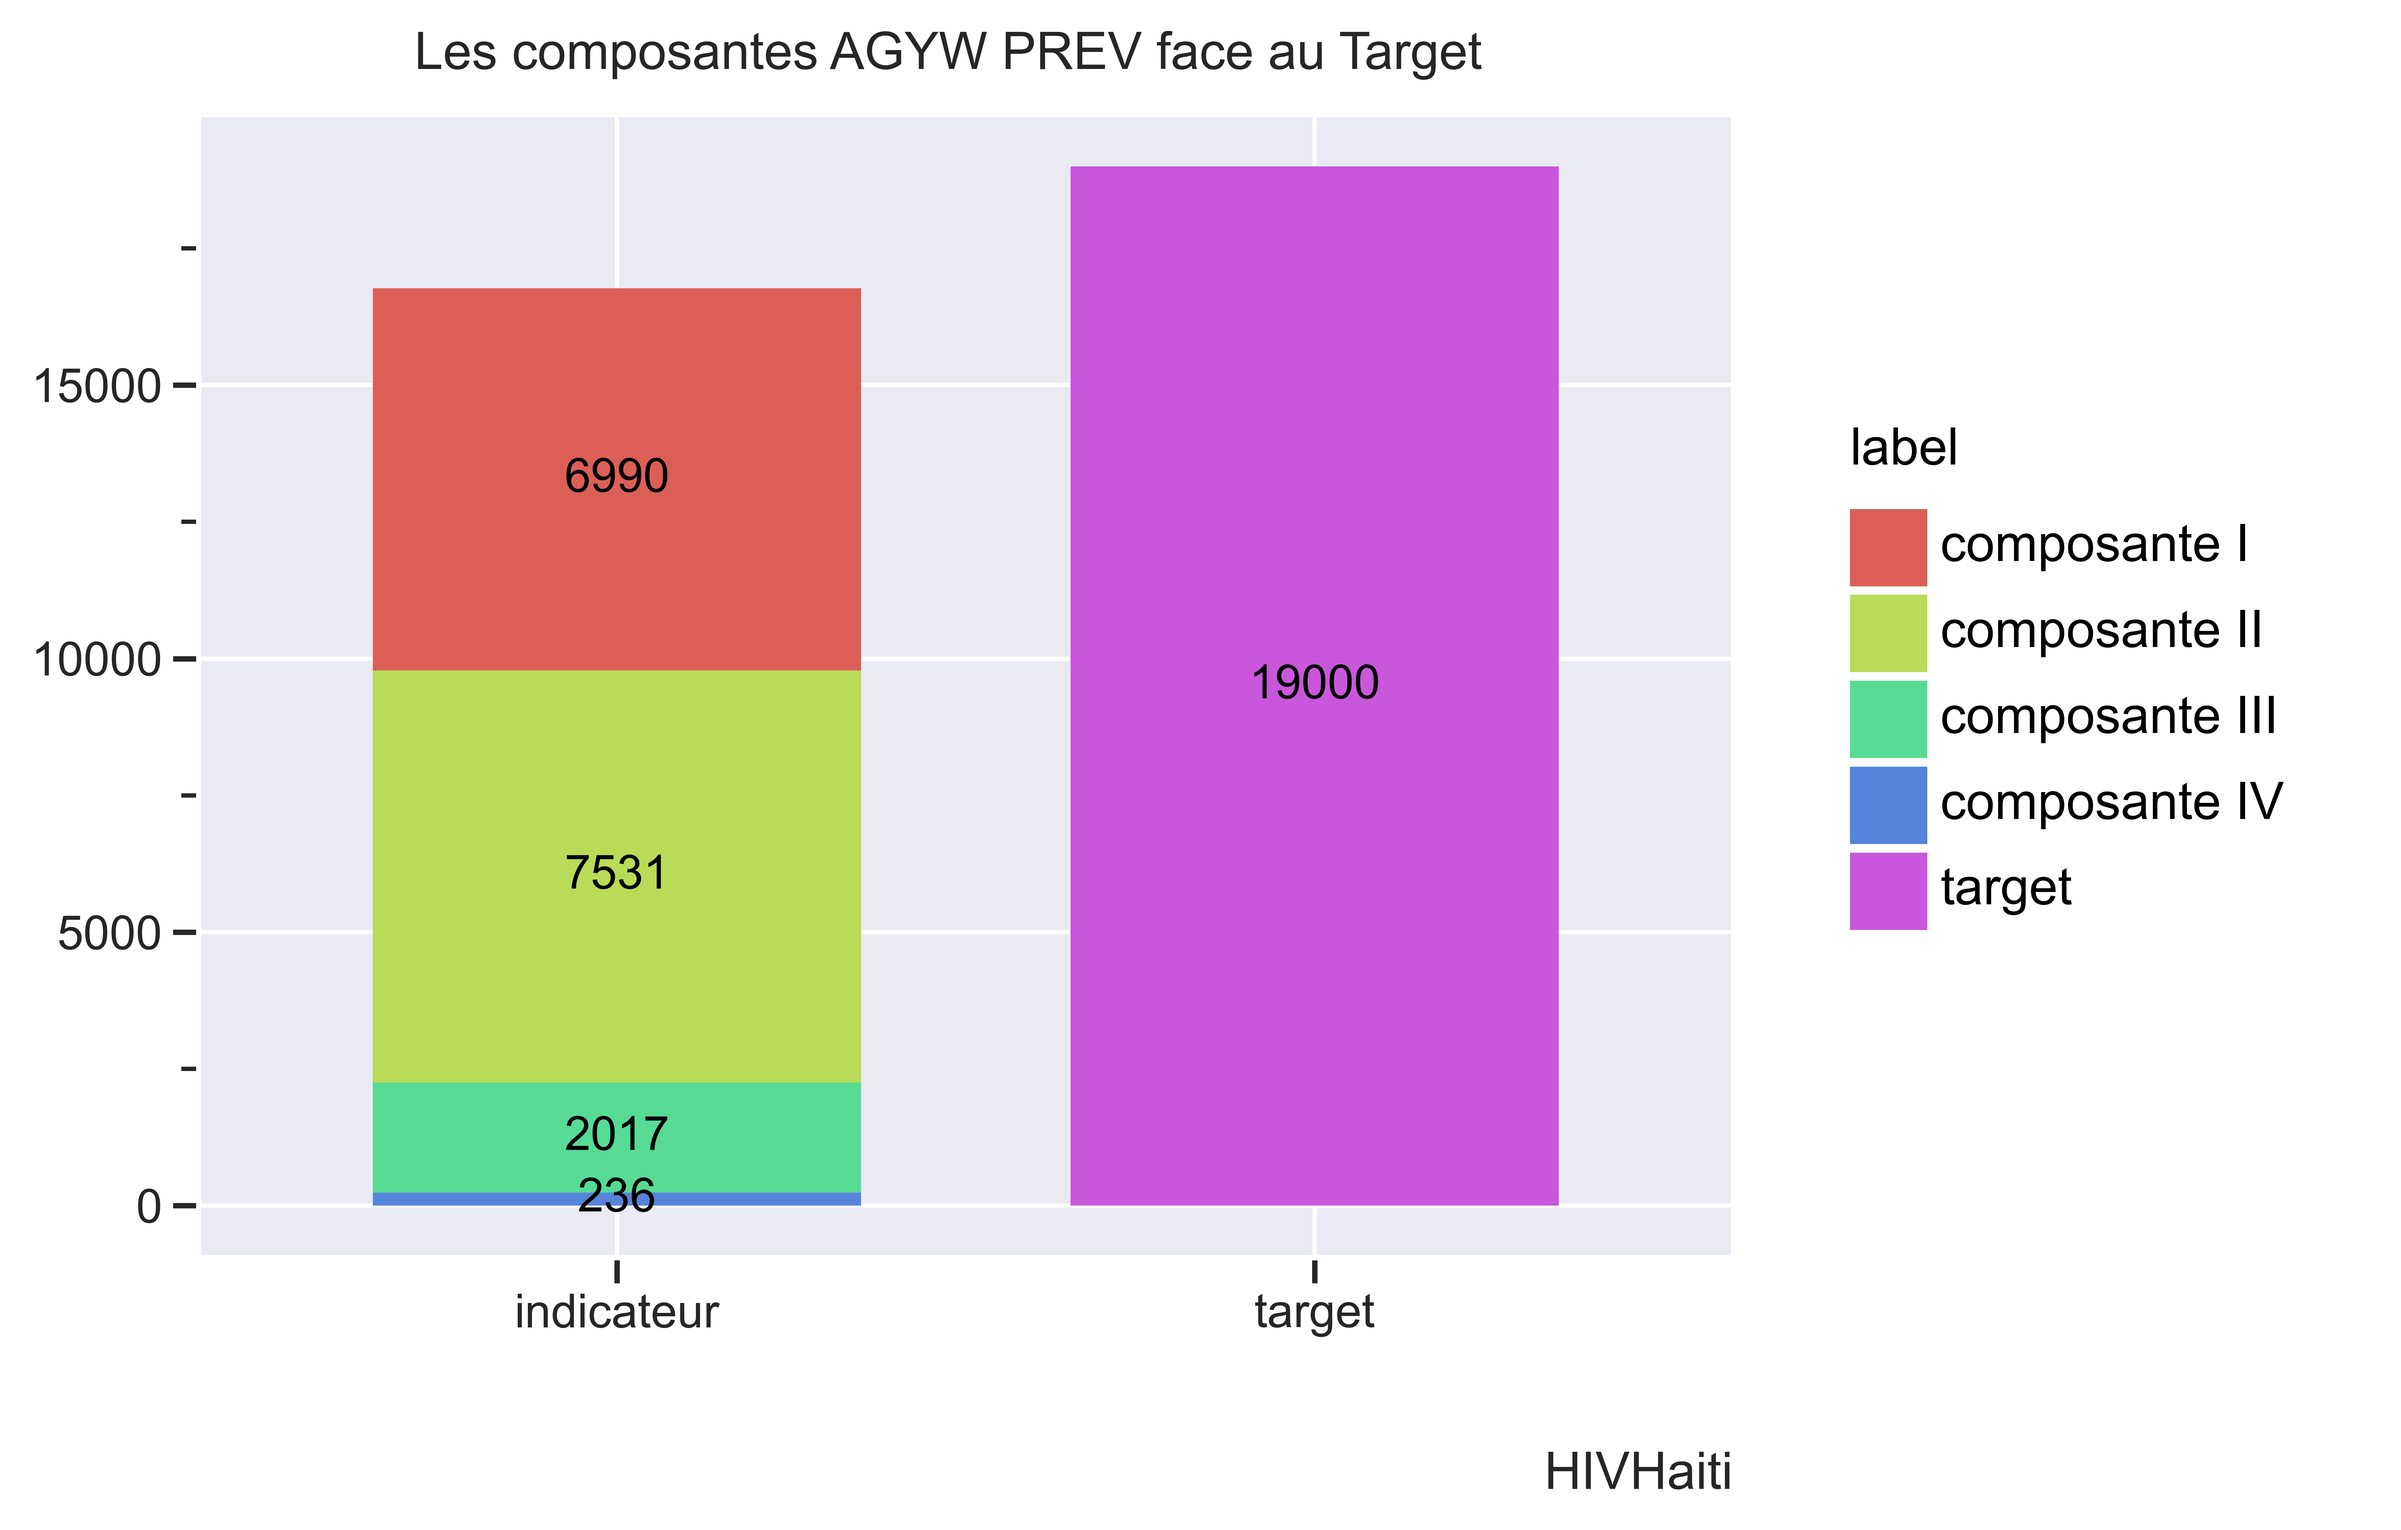
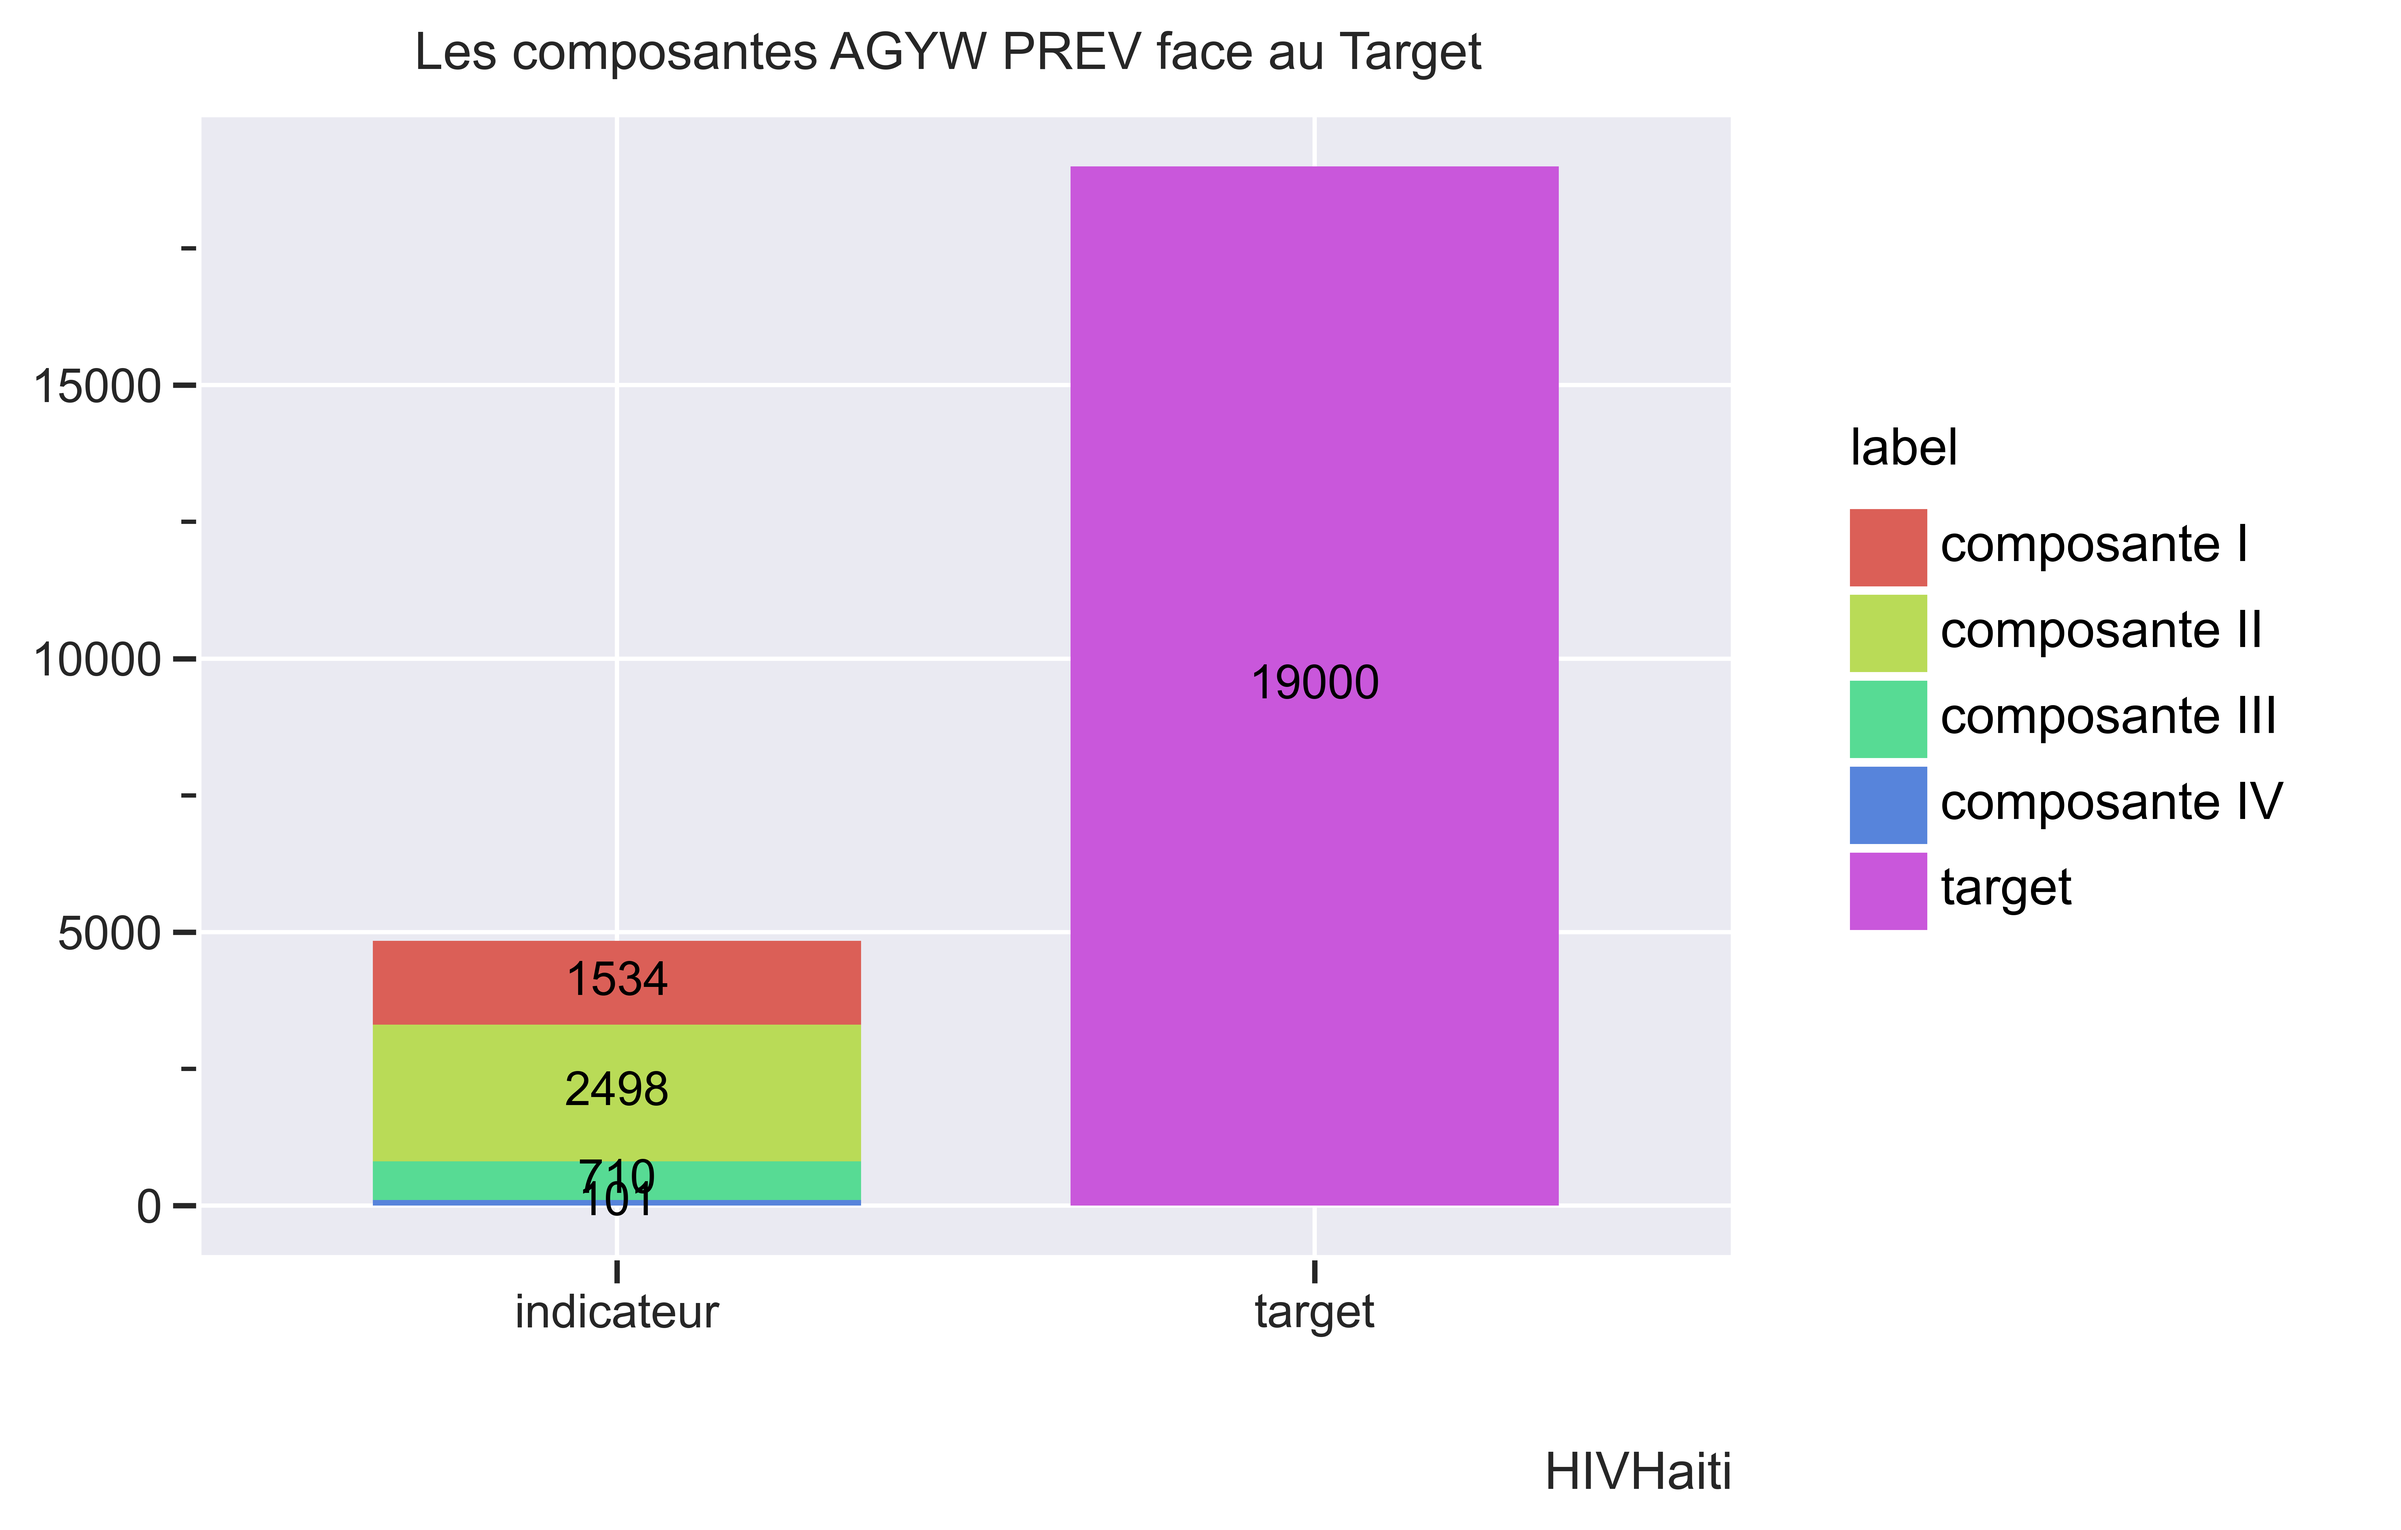
ou paka peur

Changed region(s): [[0.1559, 0.1868, 0.3742, 0.8094]]

diff --git a/data/v22_updated/core/active.py b/data/v22_updated/core/active.py
@@ -20,12 +20,14 @@ DBNAME = config('DBCaris')
 
 
 class Set_date(Enum):
-    master_start = "2017-10-01"
-    #master_end = "2022-07-19"
-    master_end = datetime.today().strftime('%Y-%m-%d')
-    period_start = "2021-10-01"
-    #period_end = "2022-07-19"
-    period_end = datetime.today().strftime('%Y-%m-%d')
+    #master_start = "2017-10-01"
+    master_start = "2018-04-01"
+    master_end = "2022-06-31"
+    #master_end = datetime.today().strftime('%Y-%m-%d')
+    #period_start = "2021-10-01"
+    period_start = "2022-04-01"
+    period_end = "2022-06-31"
+    #period_end = datetime.today().strftime('%Y-%m-%d')
 
 
 # get the engine to connect and fetch
